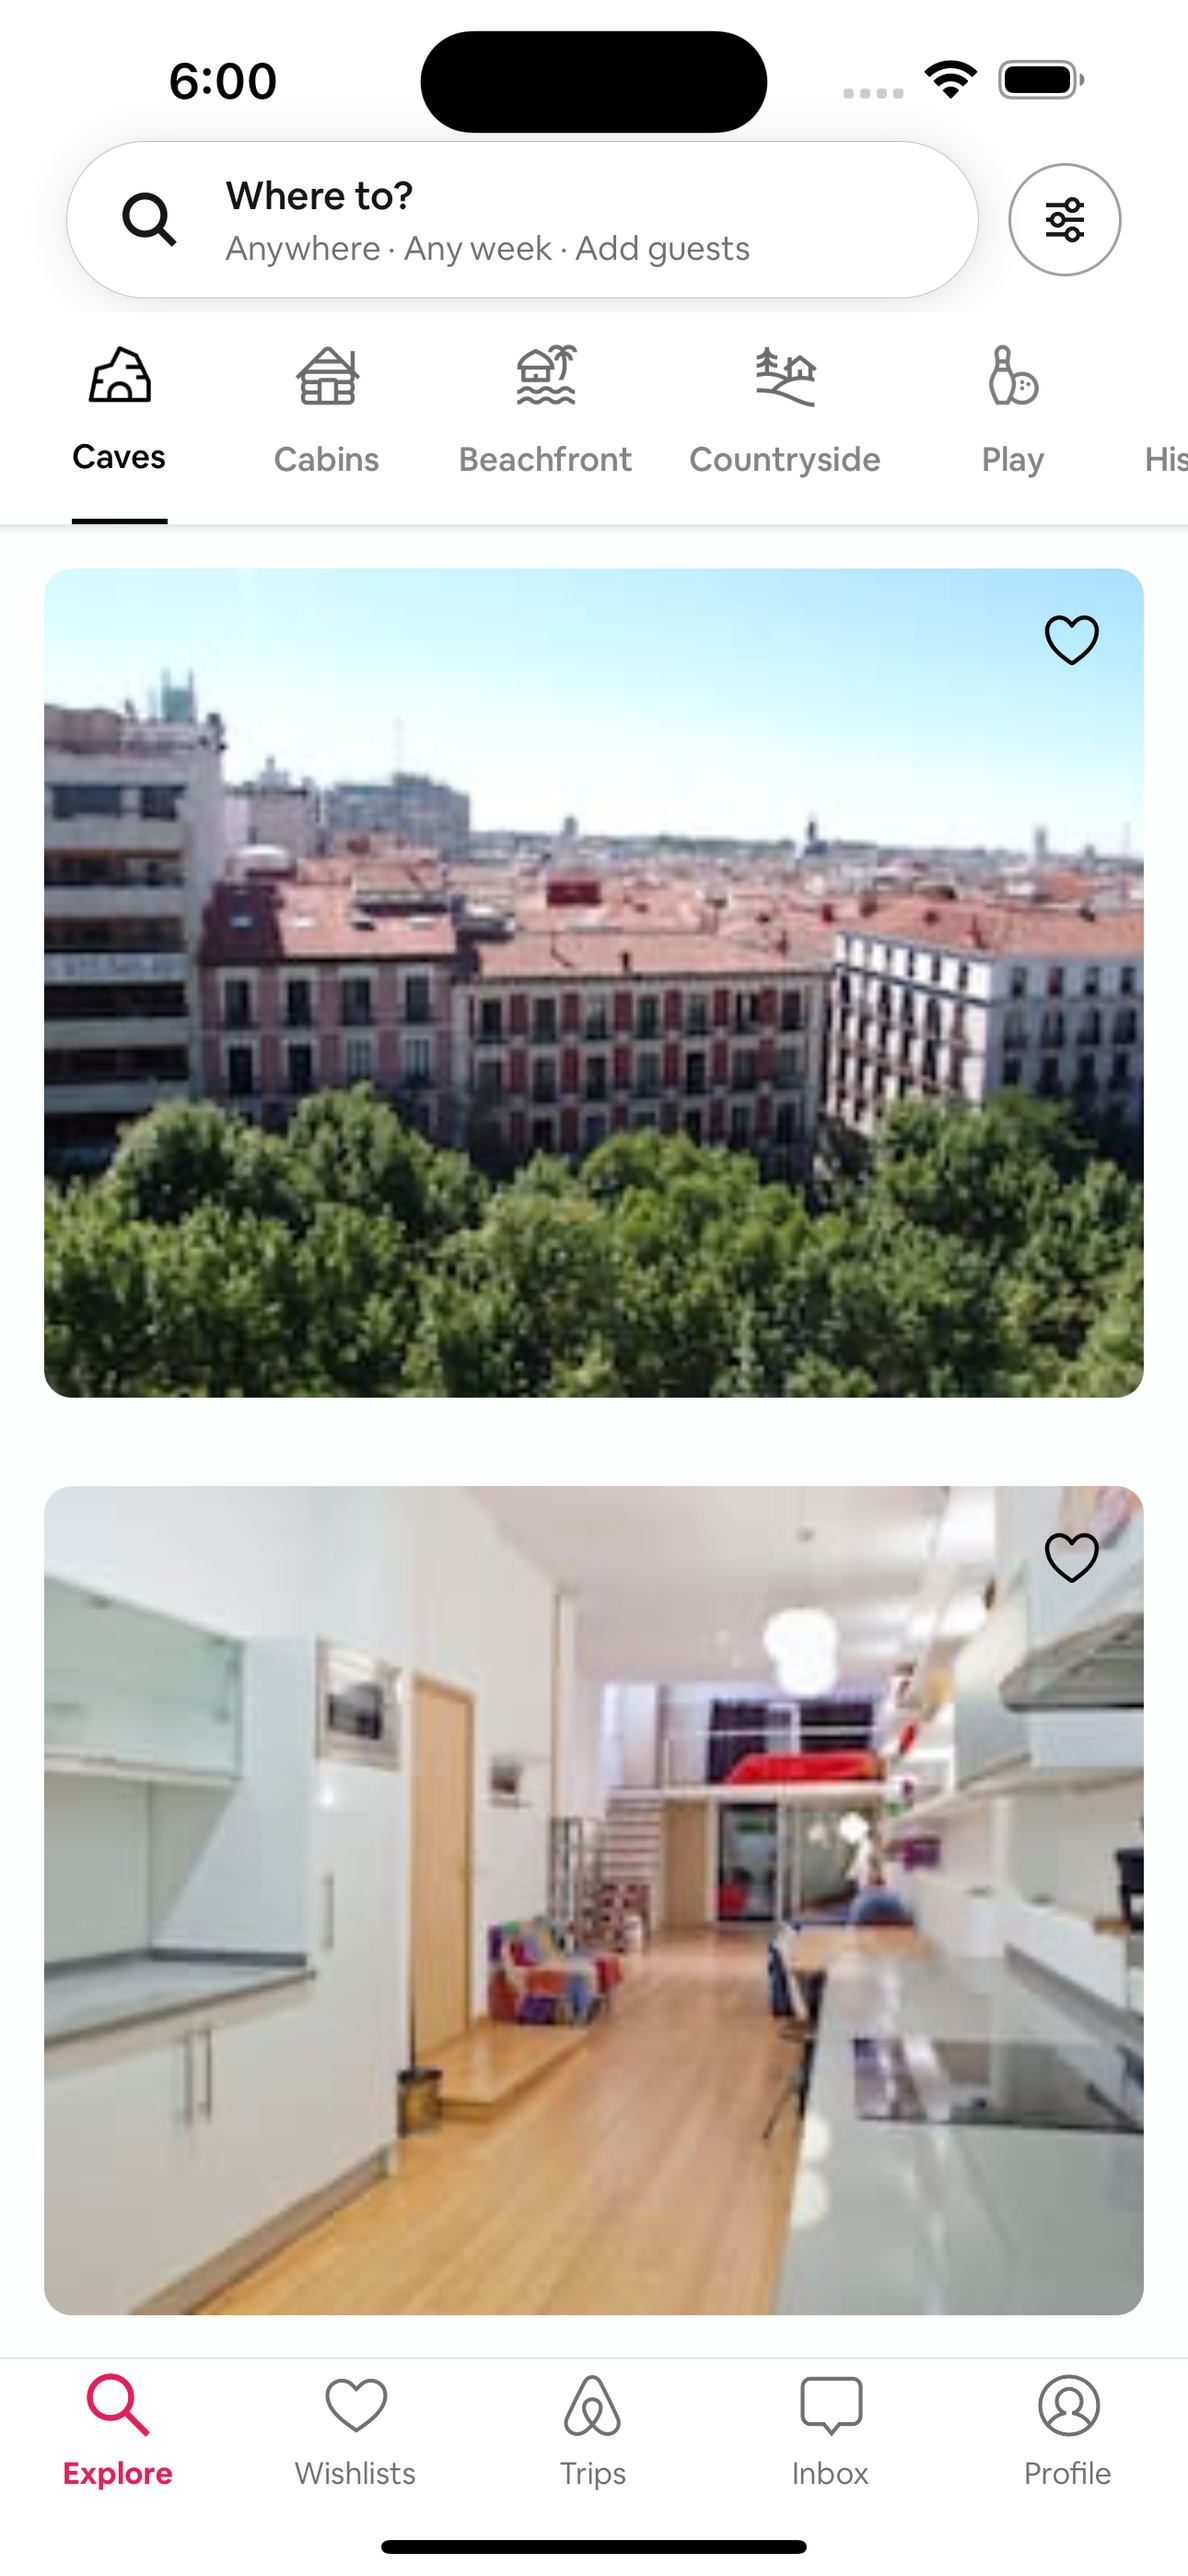
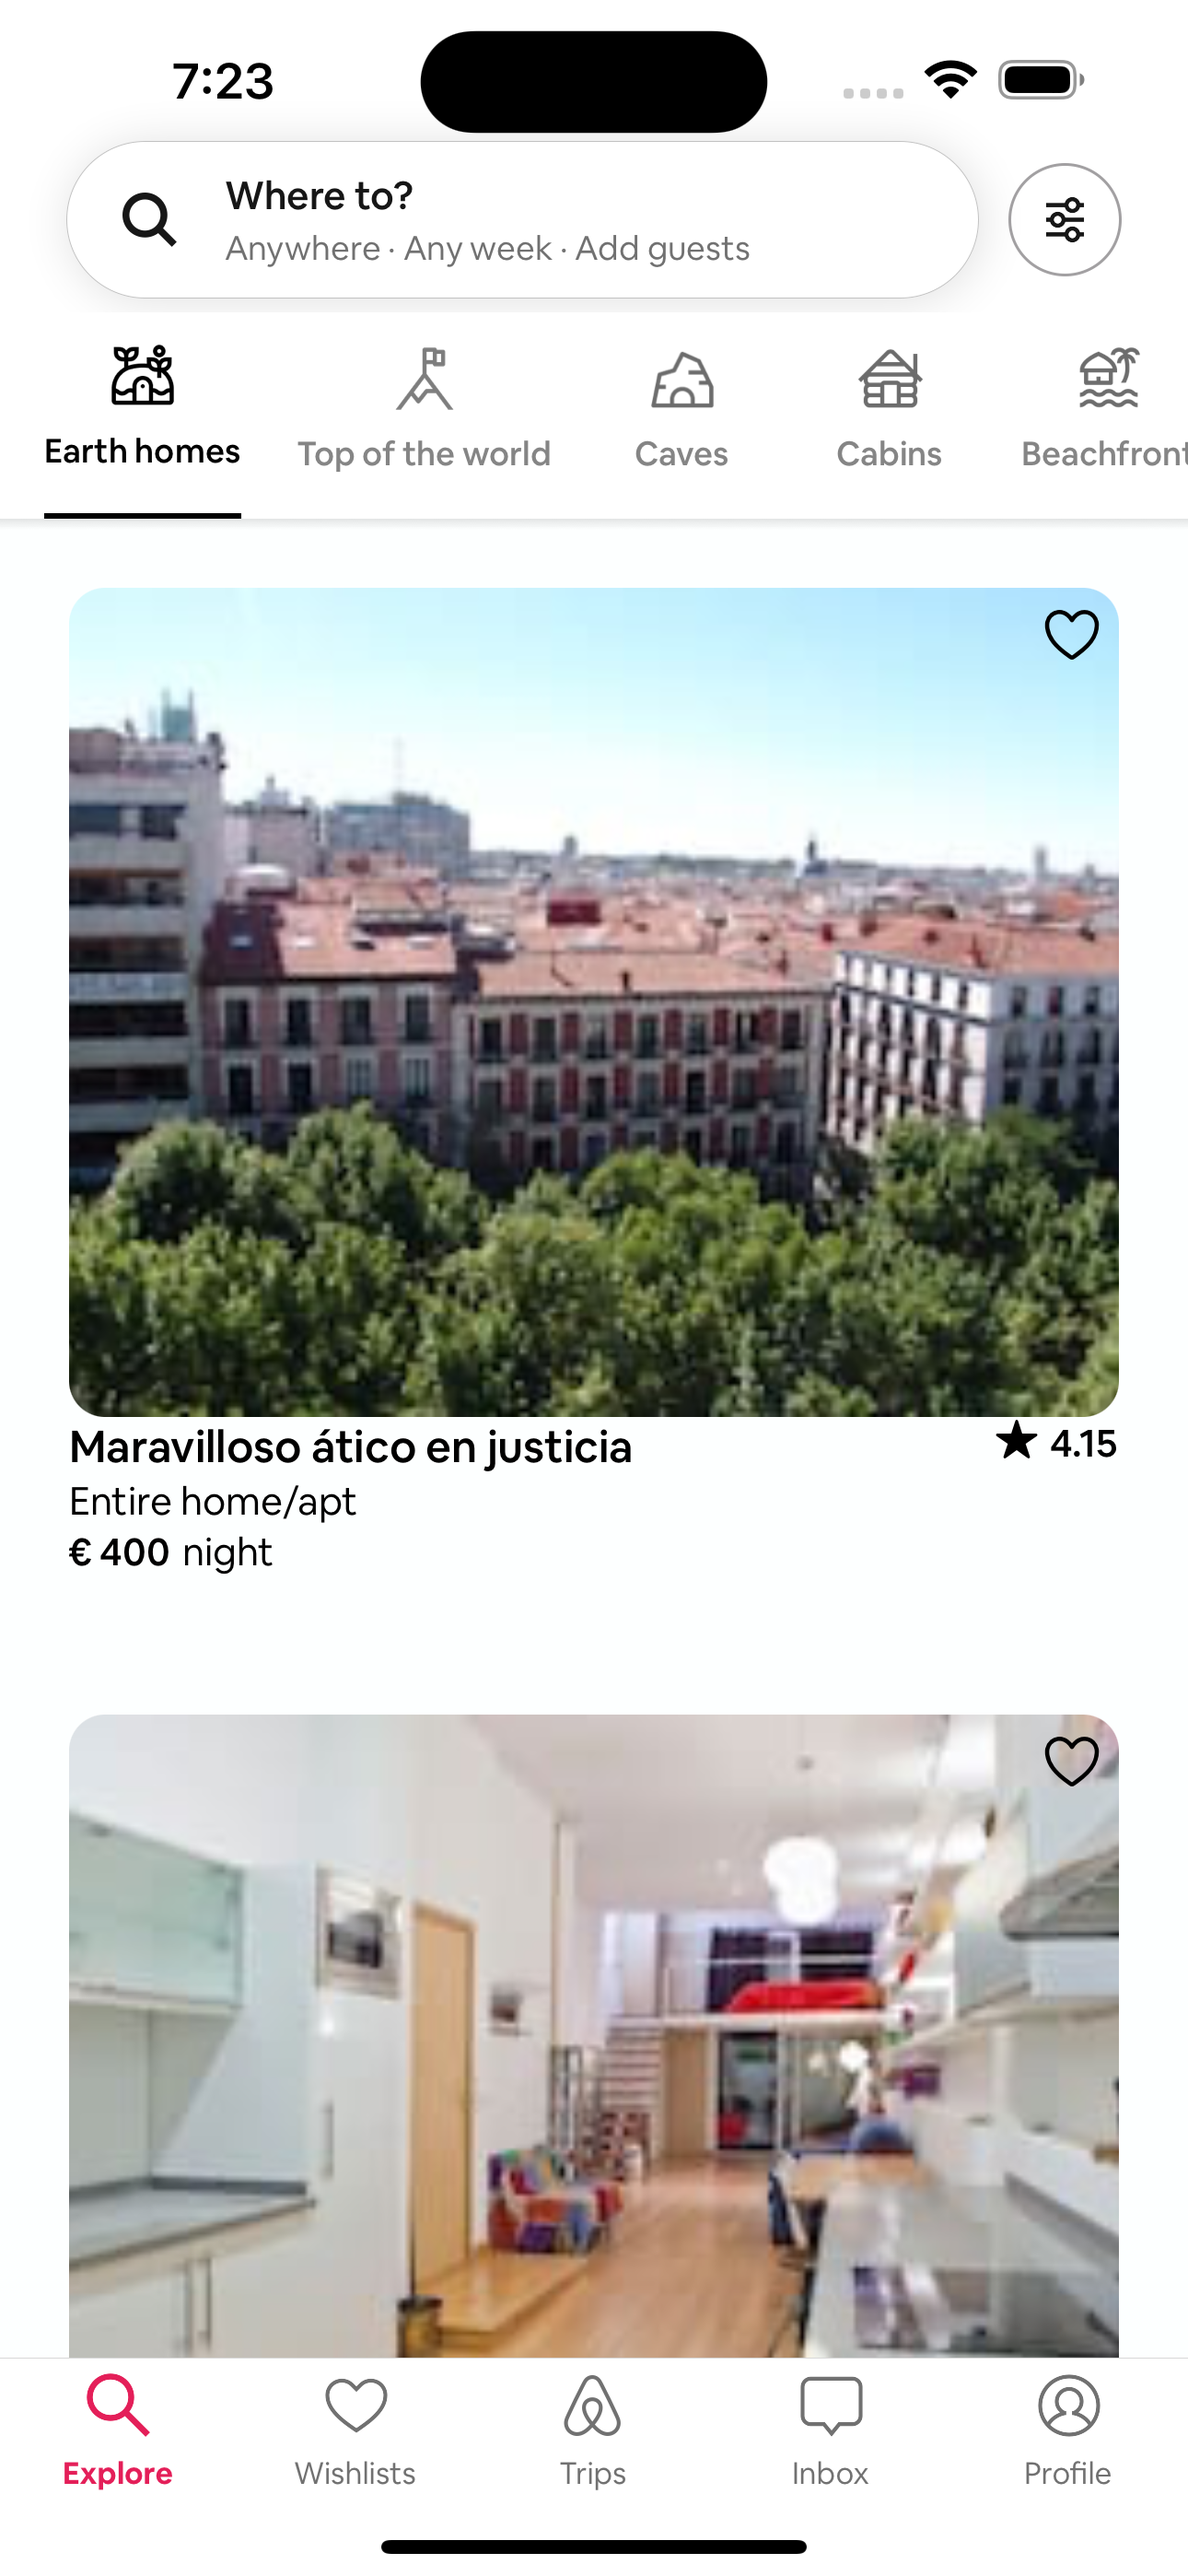
Commit - Index Screen UI / Listings

diff --git a/components/Listings.tsx b/components/Listings.tsx
@@ -14,15 +14,16 @@ import { Listing } from "@/interfaces/listing";
 import { Ionicons } from "@expo/vector-icons";
 import HeartIcon1 from "../assets/svgs/heart.svg";
 import HeartIcon2 from "../assets/svgs/heart2.svg";
+import Animated, { FadeInRight, FadeOutLeft } from 'react-native-reanimated';
 
 interface Props {
   listings: any[];
   category: string;
 }
 
-interface RenderRowProps {
+/* interface RenderRowProps {
   item: Listing;
-}
+} */
 
 const Listings = ({ listings: items, category }: Props) => {
   const [loading, setLoading] = useState(false);
@@ -48,30 +49,46 @@ const Listings = ({ listings: items, category }: Props) => {
     </Link>
   ); */
 
-  const RenderRow: React.FC<RenderRowProps> = React.memo(({ item }) => (
-    // Link must ADD asChild prop to work! otherwise wont see images
+/*   const RenderRow: React.FC<RenderRowProps> = React.memo(({ item }) => (
     <Link href={`/listing/${item.id}`} asChild>
       <TouchableOpacity>
         <View style={styles.listing}>
           <Image source={{ uri: item.medium_url }} style={styles.image} />
           <TouchableOpacity style={{ position: 'absolute', right:40, top: 38}}>
-
             <Ionicons name="heart-outline" size={25} color="#fff"/>
-
-            {/* <HeartIcon1
-                width={17}
-                height={17}
-                color="#000"
-                strokeWidth={"3"}
-              /> */}
-
           </TouchableOpacity>
         </View>
       </TouchableOpacity>
     </Link>
   ));
 
-  const renderRow: ListRenderItem<Listing> = ({ item }) => <RenderRow item={item} />;
+  const renderRow: ListRenderItem<Listing> = ({ item }) => <RenderRow item={item} />; */
+
+    // Render one listing row for the FlatList
+    const renderRow: ListRenderItem<any> = ({ item }) => (
+      <Link href={`/listing/${item.id}`} asChild>
+        <TouchableOpacity>
+          <Animated.View style={styles.listing} entering={FadeInRight} exiting={FadeOutLeft}>
+            <Animated.Image source={{ uri: item.medium_url }} style={styles.image} />
+            <TouchableOpacity style={{ position: 'absolute', right: 30, top: 30 }}>
+              <Ionicons name="heart-outline" size={24} color="#000" />
+            </TouchableOpacity>
+            <View style={{ flexDirection: 'row', justifyContent: 'space-between' }}>
+              <Text style={{ fontSize: 16, fontFamily: 'Cereal-medium' }}>{item.name}</Text>
+              <View style={{ flexDirection: 'row', gap: 4 }}>
+                <Ionicons name="star" size={16} />
+                <Text style={{ fontFamily: 'Cereal-medium' }}>{item.review_scores_rating / 20}</Text>
+              </View>
+            </View>
+            <Text style={{ fontFamily: 'Cereal' }}>{item.room_type}</Text>
+            <View style={{ flexDirection: 'row', gap: 4 }}>
+              <Text style={{ fontFamily: 'Cereal-medium' }}>€ {item.price}</Text>
+              <Text style={{ fontFamily: 'Cereal' }}>night</Text>
+            </View>
+          </Animated.View>
+        </TouchableOpacity>
+      </Link>
+    );
 
   return (
     <View style={defaultStyles.container}>

diff --git a/app/_layout.tsx b/app/_layout.tsx
@@ -43,7 +43,7 @@ SplashScreen.preventAutoHideAsync();
 export default function RootLayout() {
   const [loaded, error] = useFonts({
     "Cereal-light": require("../assets/fonts/AirbnbCereal_W_Lt.otf"),
-    Cereal: require("../assets/fonts/AirbnbCereal_W_Bk.otf"),
+    "Cereal": require("../assets/fonts/AirbnbCereal_W_Bk.otf"),
     "Cereal-medium": require("../assets/fonts/AirbnbCereal_W_Md.otf"),
     "Cereal-bold": require("../assets/fonts/AirbnbCereal_W_Bd.otf"),
     "Cereal-extra-bold": require("../assets/fonts/AirbnbCereal_W_Bd.otf"),

diff --git a/babel.config.js b/babel.config.js
@@ -2,5 +2,8 @@ module.exports = function (api) {
   api.cache(true);
   return {
     presets: ["babel-preset-expo"],
+    plugins: [
+      'react-native-reanimated/plugin',
+    ]
   };
 };
